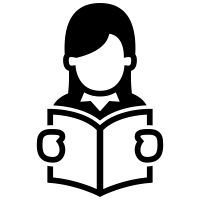
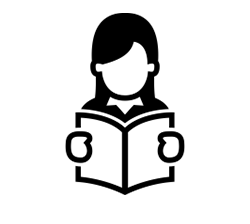
New Pics in "Für..."-Section

Changed region(s): [[0.18, 0.0, 0.84, 0.99]]

diff --git a/frontend-services/website/src/content/templates/pages/index.html b/frontend-services/website/src/content/templates/pages/index.html
@@ -17,7 +17,8 @@
             },
             {
                 headline: 'Für Studierende',
-                description: 'Lorem ipsum dolor sit amet consectetur adipisicing elit. Ex, neque voluptas. Iusto culpa nostrum mollitia possimus odio fugiat ratione perferendis maxime, nobis quo, ad cum sint, ipsam quam excepturi expedita!'
+                description: 'Lorem ipsum dolor sit amet consectetur adipisicing elit. Ex, neque voluptas. Iusto culpa nostrum mollitia possimus odio fugiat ratione perferendis maxime, nobis quo, ad cum sint, ipsam quam excepturi expedita!',
+                image: '/img/Laptop.png'
             }
         ],
 
@@ -42,17 +43,17 @@
             {
                 headline: 'Für Studierende',
                 description: 'Lorem ipsum dolor sit amet consectetur adipisicing elit. Ex, neque voluptas. Iusto culpa nostrum mollitia possimus odio fugiat ratione perferendis maxime, nobis quo, ad cum sint, ipsam quam excepturi expedita!',
-                image: '<img src="/img/Student.png">'
+                image: '/img/Student.png'
             },
             {
                 headline: 'Für Lehrende',
                 description: 'Lorem ipsum dolor sit amet consectetur adipisicing elit. Ex, neque voluptas. Iusto culpa nostrum mollitia possimus odio fugiat ratione perferendis maxime, nobis quo, ad cum sint, ipsam quam excepturi expedita!',
-                image: '<img src="/img/Teacher.png">'
+                image: '/img/Teacher.png'
             },
             {
                 headline: 'Für Interessierte',
                 description: 'Lorem ipsum dolor sit amet consectetur adipisicing elit. Ex, neque voluptas. Iusto culpa nostrum mollitia possimus odio fugiat ratione perferendis maxime, nobis quo, ad cum sint, ipsam quam excepturi expedita!',
-                image: '<img src="/img/Laptop.png">'
+                image: '/img/Laptop.png'
             }
         ],
 
@@ -124,7 +125,7 @@
     <div class=" flex relative -top-10 justify-between mx-auto flex-col lg:flex-row max-w-md lg:max-w-6xl gap-10 font-body">
         {% for item in text.teaser %}
         <div class="bg-secondary-light rounded-3xl p-5 lg:w-80 w-full shadow-xl text-center">
-            <div class="">{{item.image |safe}}</div>
+            <img class="mx-auto" src="{{item.image}}"/>
             <div class="text-3xl pb-2 font-bold mx-auto">{{item.headline}}</div>
             <div>{{item.description}}</div>
         </div>
